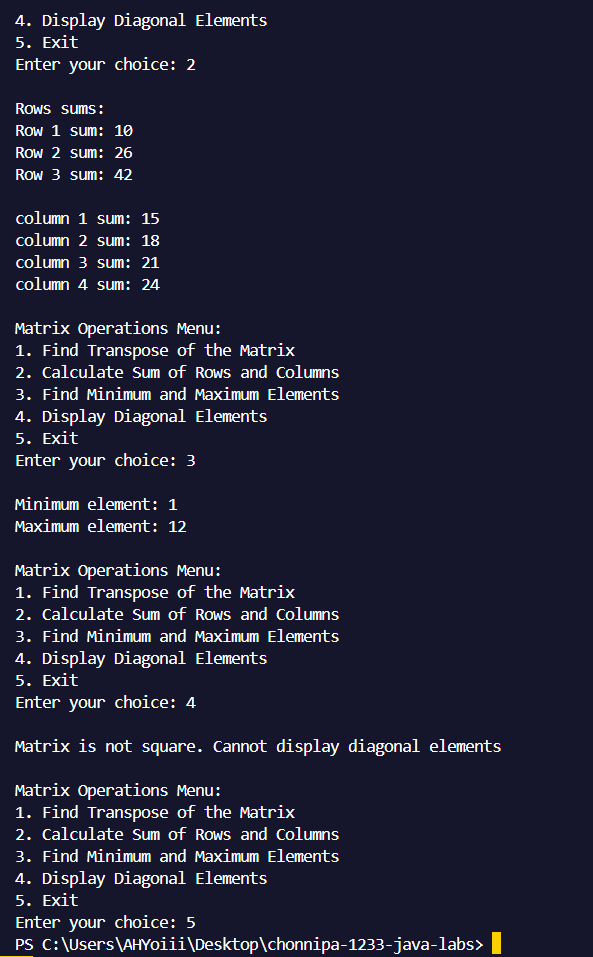
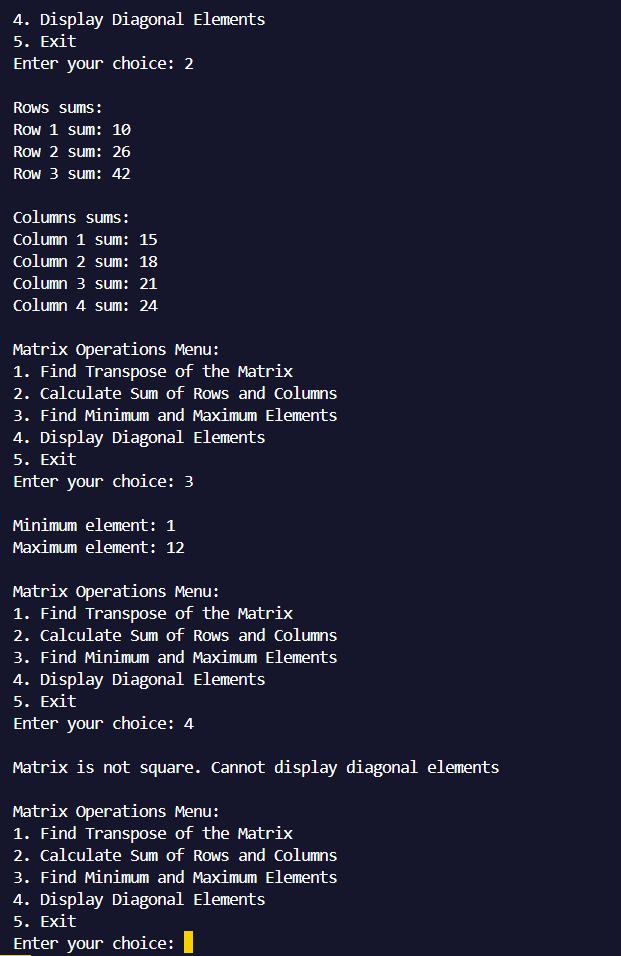
lab5 - all done

Changed region(s): [[0.0, 0.0, 0.8499, 1.0]]

diff --git a/ngohlumdoun/chonnipa/lab5/MatrixOperations.java b/ngohlumdoun/chonnipa/lab5/MatrixOperations.java
@@ -13,7 +13,7 @@ import java.util.Scanner;
  * ID : 673040123-3
  * Sec : 2
  * 
- * Last Updated : 26 Dec 2024 01:09 PM
+ * Last Updated : 27 Dec 2024 03:45 AM
  */
 
 public class MatrixOperations {
@@ -217,13 +217,13 @@ public class MatrixOperations {
             System.out.println("Row " + (i + 1) + " sum: " + rowSums[i]);
         }
 
-        System.out.println();
+        System.out.println("\nColumns sums:");
 
         // sum of all columns
         for (int j = 0; j < columns; j++) {
             for (int i = 0; i < rows; i++)
                 columnSums[j] += matrix[i][j];
-            System.out.println("column " + (j + 1) + " sum: " + columnSums[j]);
+            System.out.println("Column " + (j + 1) + " sum: " + columnSums[j]);
         }
     }
 
@@ -244,10 +244,13 @@ public class MatrixOperations {
     }
 
     public static void displayDiagonal() {
-        System.out.println("\nDiagonal elements:");
-        for (int i = 0; i < rows; i++)
-            System.out.print(matrix[i][i] + "  ");
+        int diagonalMatrix[][] = new int[rows][columns];
 
-        System.out.println();
+        for (int i = 0; i < rows; i++)
+            for (int j = 0; j < columns; j++)
+                diagonalMatrix[i][i] = matrix[i][i];
+
+        System.out.println("\nDiagonal elements:");
+        displayMatrix(diagonalMatrix);
     }
 }
